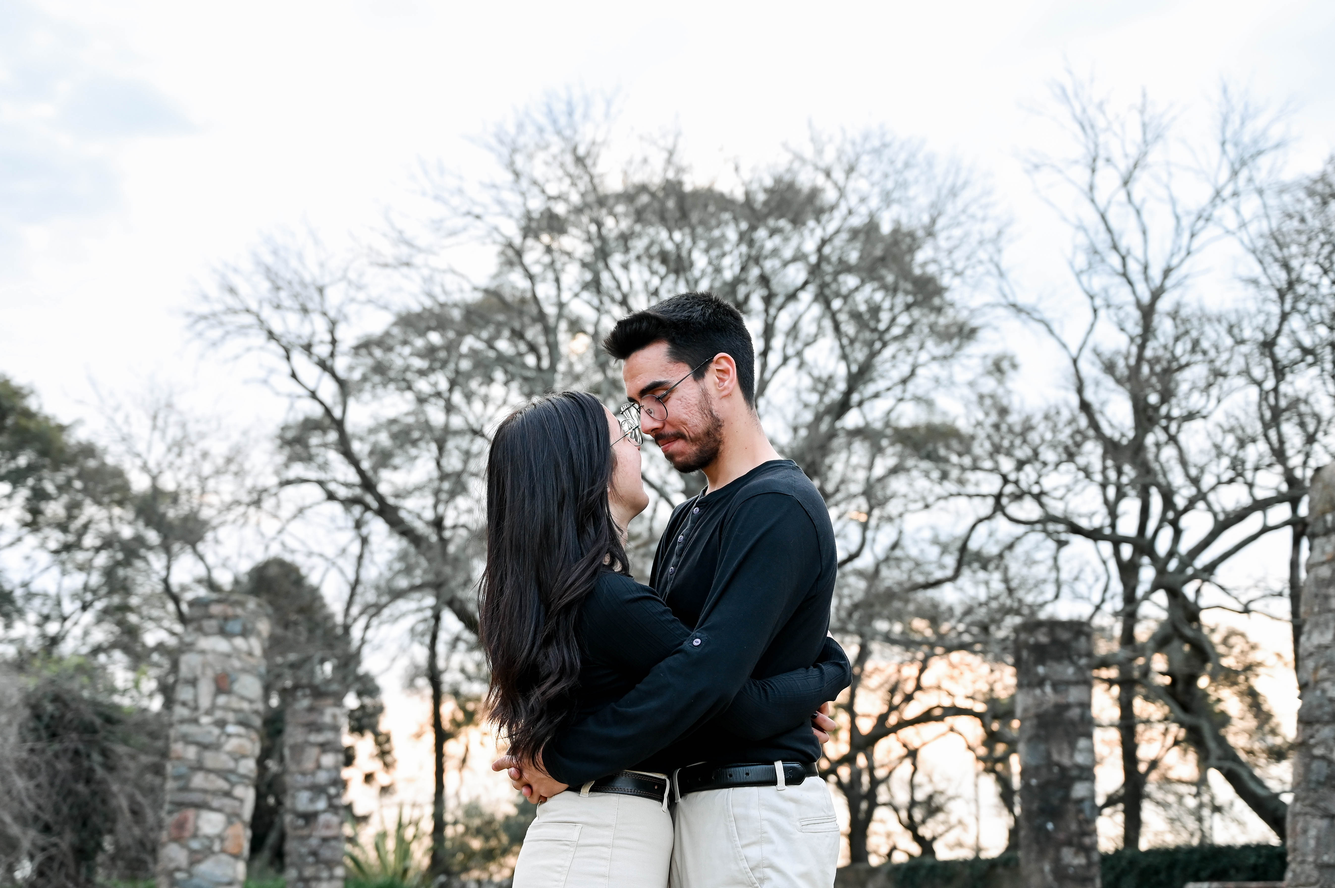
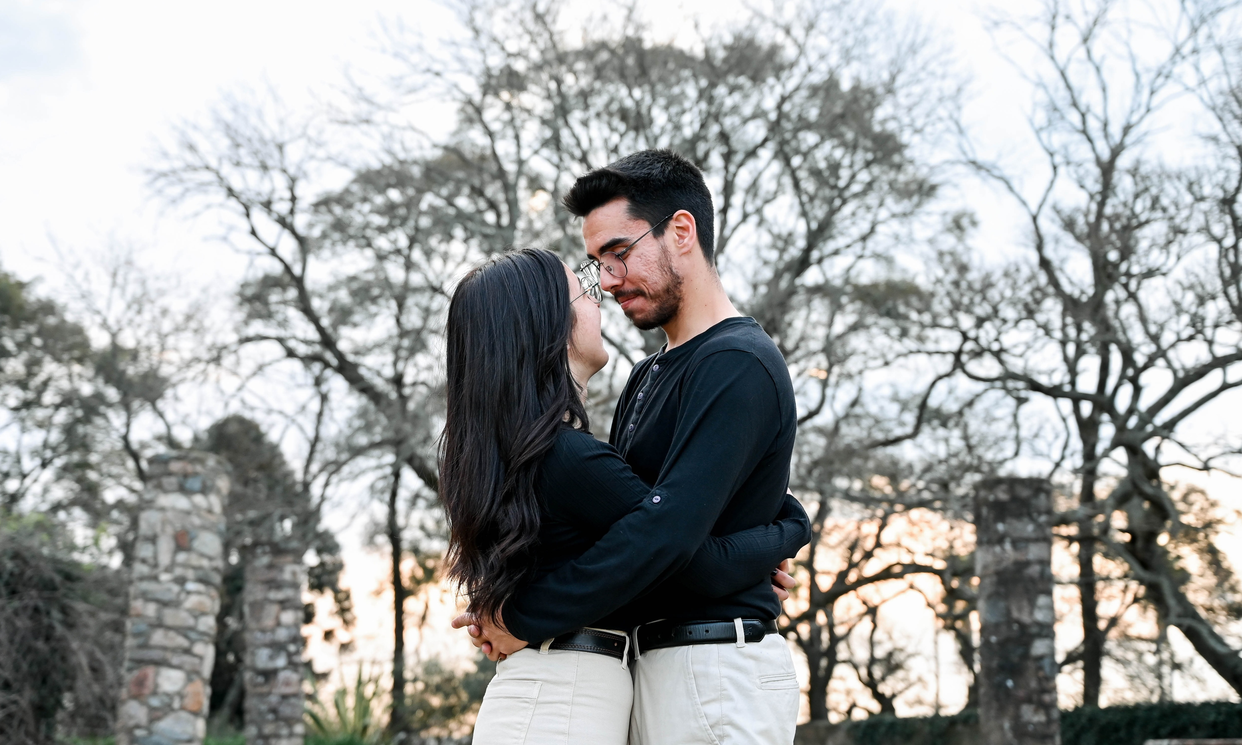
feat: :lipstick: added webp images for performance

diff --git a/src/constants/props.ts b/src/constants/props.ts
@@ -45,7 +45,7 @@ export const bgmProps = {
 export const heroProps = {
   couple: WEDDING_COUPLE,
   title: HERO_TITLE,
-  img: "/images/hero.jpg",
+  img: "/images/webp/hero.webp",
 };
 
 export const messageSeparatorProps = {
@@ -70,10 +70,17 @@ export const scheduleProps = {
   filename: SCHEDULE_DOWNLOAD_FILENAME,
 };
 
-export const imageSeparatorProps = {
-  src: "/images/separator_1.jpg",
-  alt: "Separador decorativo",
-};
+export const imageSeparatorProps = [
+  {
+    src: "/images/webp/separator_1.webp",
+  },
+  {
+    src: "/images/webp/separator_2.webp",
+  },
+  {
+    src: "/images/webp/separator_3.webp",
+  },
+];
 
 export const quoteSeparatorProps = {
   quote: QUOTE_TEXT,
@@ -87,7 +94,7 @@ export const placeDetailsProps = [
     place: EVENT_1_PLACE,
     address: EVENT_1_ADDRESS,
     mapLink: EVENT_1_MAP_LINK,
-    image: "/images/event_detail_1.jpg",
+    image: "/images/webp/event_detail_1.webp",
   },
   {
     name: EVENT_2_NAME,
@@ -95,7 +102,7 @@ export const placeDetailsProps = [
     place: EVENT_2_PLACE,
     address: EVENT_2_ADDRESS,
     mapLink: EVENT_2_MAP_LINK,
-    image: "/images/event_detail_2.jpg",
+    image: "/images/webp/event_detail_2.webp",
   },
 ];
 
